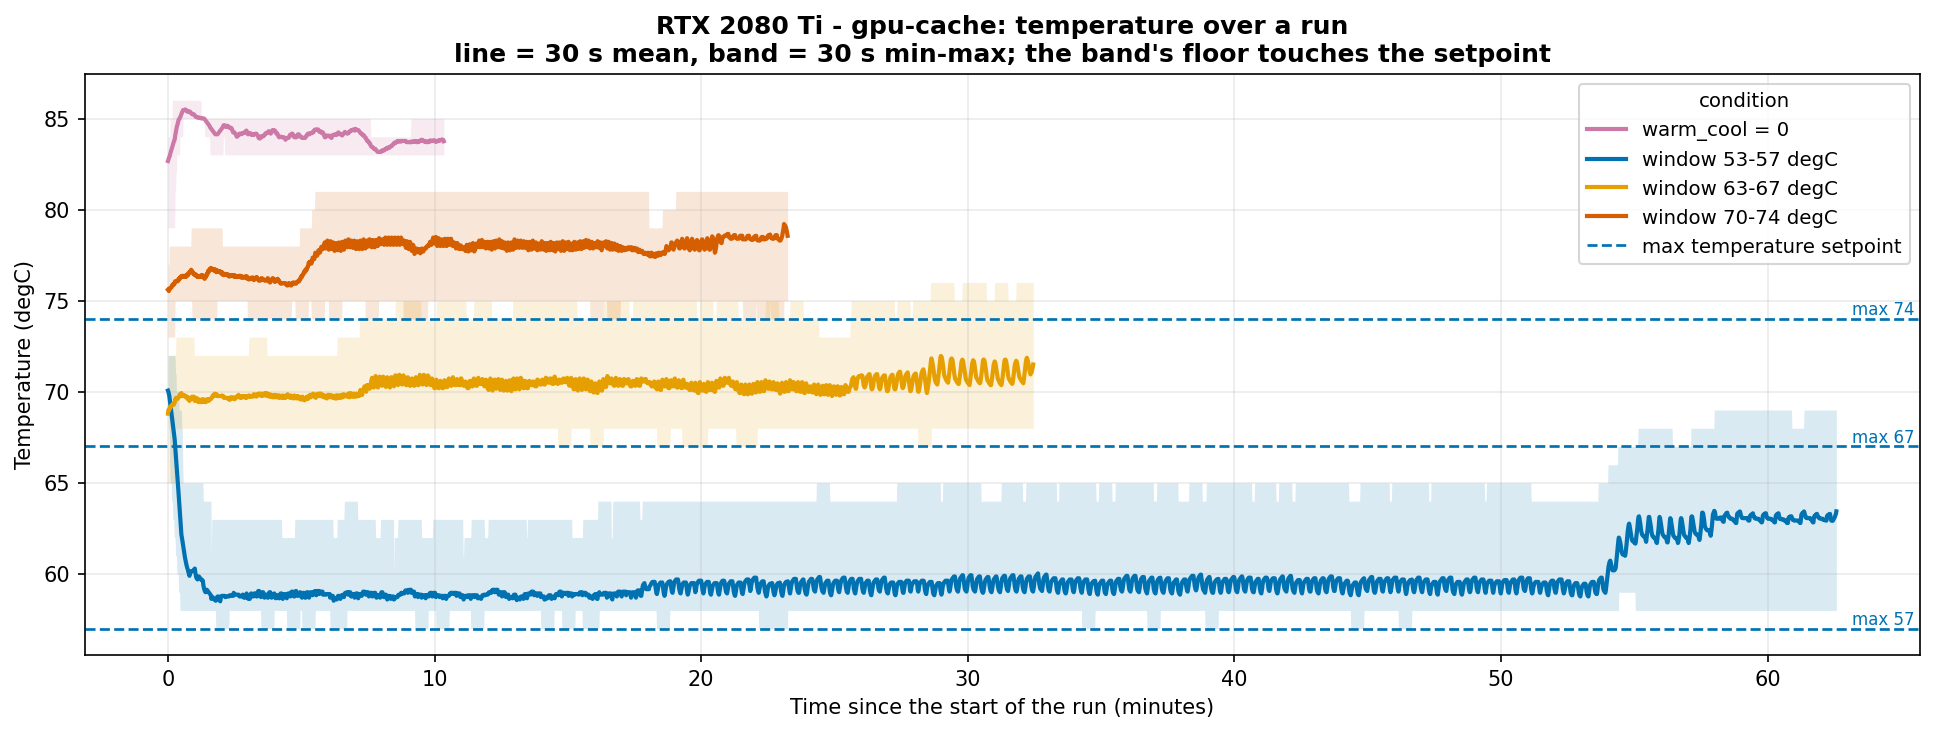
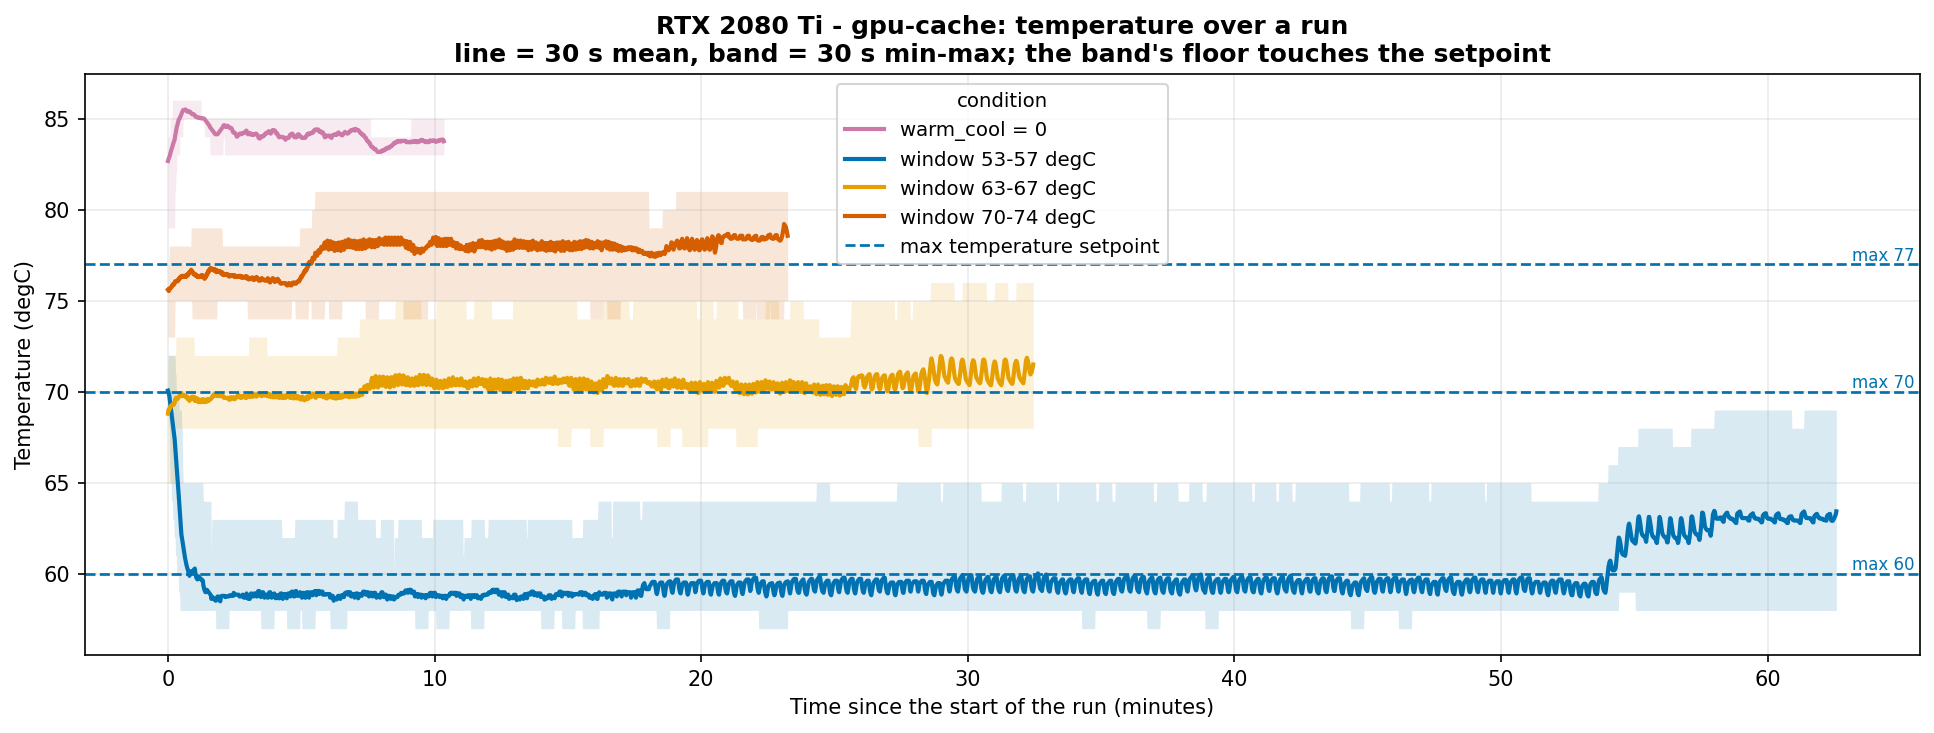
RESULTS: setpoint lines at 60/70/77 on the evolution figure
Moves the three dashed lines up to where each condition actually settles
during measurement, and matches the window figures in the text.

diff --git a/RESULTS.md b/RESULTS.md
@@ -287,8 +287,8 @@ established, not assumed: the manifest gives 722 s constant across `warmcool/san
 ## 4.2 `warm_cool` - hold the GPU inside a temperature window
 
 **Experiment** `gpu-cache` on the RTX 2080 Ti, backend `cuda`, campaign
-`result_FlushL2_WarmCool_20260901_141122`: the option run at three target windows (53-57, 63-67,
-70-74 degC) against a no-regulation baseline, 10 runs each, clocks left free (locking them would
+`result_FlushL2_WarmCool_20260901_141122`: the option run at three target windows (53-60, 63-70,
+70-77 degC) against a no-regulation baseline, 10 runs each, clocks left free (locking them would
 hide the thermal effect), with a per-second `nvidia-smi` trace.
 
 **It works - the window is held.** Without regulation the card climbs to ~84 degC and stays
